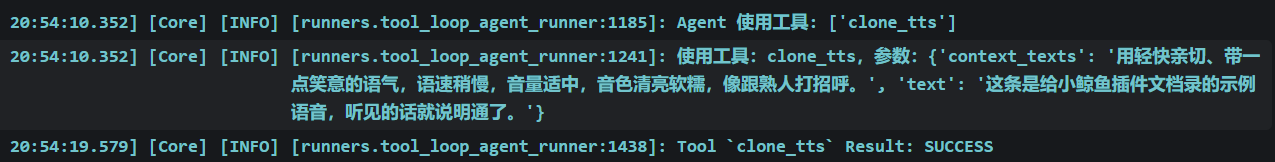
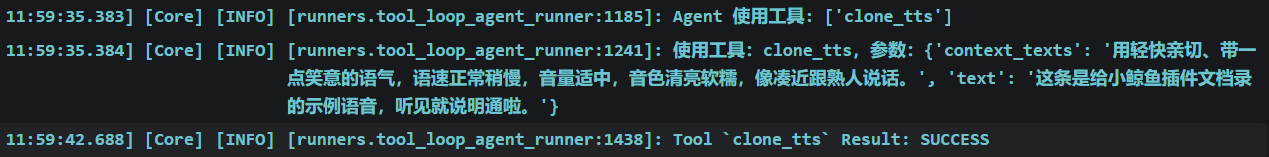
feat(1.2.0): 音调调节 + 服务地址/音色自动识别 + 文档图片走 jsDelivr
新增
- pitch_shift：-12~+12 半音，变调不改时长（重采样 + WSOLA 补偿），FFT 实测误差 <0.6%

变更
- breeze_api / voice_id 默认值改为空，留空自动识别（只探 9000 / 取第一个音色）
- 移除 enable_llm_tool（clone_tts 随插件启用，不再单独开关）
- 配置项 20 → 18
- 文档图片改用 gcore.jsdelivr.net（raw.githubusercontent 在部分网络不可达）

修复
- 语速极限档位电平下降 0.82 dB → 加响度补偿，现误差 0.00 dB
- 字符串/浮点配置被静默跳过 → 入口统一强转

diff --git a/utils/audio_ops.py b/utils/audio_ops.py
@@ -1,17 +1,12 @@
 """
 音频后处理：语速（时间伸缩）与音调（变调不变速）。
 
-为什么不用 ffmpeg：
-    插件只需要「WAV → 变速/变调 → WAV」这一条链路，
-    而 ffmpeg 是 60 MB 级的多媒体全家桶，为了两个滤镜背 60 MB 不值。
-
-实现原理：
-    语速 —— WSOLA（Waveform Similarity Overlap-Add，波形相似叠加）。
-        参考 ffmpeg 的 `af_atempo` 滤镜（libavfilter/af_atempo.c）思路：
+实现原理（纯 numpy，不依赖任何外部程序）：
+    语速 —— WSOLA（Waveform Similarity Overlap-Add，波形相似叠加）：
         按固定分析步长取帧，在允许的偏移范围内找与上一帧最相似的片段，
         再用汉宁窗做重叠相加，从而在「不改变音调」的前提下伸缩时间轴。
 
-    音调 —— 重采样改频率（对应 ffmpeg 的 `asetrate`），再用 WSOLA 把时长拉回来。
+    音调 —— 重采样改频率，再用 WSOLA 把时长拉回来（变调不变速）。
 
 对外接口：
     process(wav_bytes, speed_ratio, pitch_shift) -> wav_bytes | None
@@ -45,7 +40,7 @@ def _parse_wav(data: bytes) -> tuple[list, int]:
     解析 WAV 字节流，返回 (采样列表, 采样率)。
 
     只做插件真正会遇到的情况：PCM 16bit，以及 8/24/32bit 的兜底转换。
-    参考 ffmpeg 的 wav demuxer 行为：按 chunk 逐个跳过，直到找到 fmt / data。
+    按 RIFF chunk 逐个跳过，直到找到 fmt / data。
     """
     if len(data) < 12 or data[0:4] != b"RIFF" or data[8:12] != b"WAVE":
         raise ValueError("不是合法的 WAV 数据（缺少 RIFF/WAVE 头）")
@@ -147,7 +142,7 @@ def _wsola(x, factor: float):
     factor > 1 → 变慢（变长）；factor < 1 → 变快（变短）。
     音调保持不变（这是与"直接重采样"的本质区别）。
 
-    对应 ffmpeg 的 af_atempo.c：
+    做法：
         - 分析步长固定、合成步长按 factor 缩放
         - 每帧在 ±tolerance 内做相似度搜索，取相关度最高的位置
         - 汉宁窗重叠相加，最后按窗函数累加和归一化
@@ -267,7 +262,7 @@ def pitch_ratio(semitones: int) -> float:
 
 def apply_pitch(x, semitones: int):
     """
-    变调但**不改时长**（对应 ffmpeg 的 `asetrate` + `atempo` 组合）。
+    变调但**不改时长**。
 
     做法：
         ① 重采样  → 音调变化、时长也变了（那不是我们要的）

diff --git a/tts_api/breeze_api.py b/tts_api/breeze_api.py
@@ -6,10 +6,10 @@
   3. 健康探活
 
 另外负责两处「自动识别」，避免把作者本机的配置写死给所有人：
-  · 服务地址：没填就依次探测本机常见端口
+  · 服务地址：没填就探测默认端口 9000
   · 音色    ：没填就用服务端已保存的第一个音色
 
-语速/音调的后处理在 utils/audio_ops.py 里（纯 numpy 实现，不依赖 ffmpeg）。
+语速/音调的后处理在 utils/audio_ops.py 里（纯 numpy 实现）。
 """
 
 from __future__ import annotations
@@ -26,7 +26,7 @@ from ..utils import audio_ops
 # 本机常见端口（9001 是 Breeze 的 WebSocket 端口，故意跳过）
 DEFAULT_HOST = "127.0.0.1"
 DEFAULT_PORT = 9000
-CANDIDATE_PORTS = (9000, 9002, 8000, 8080)
+CANDIDATE_PORTS = (DEFAULT_PORT,)
 
 
 class BreezeTTSClient:
@@ -69,7 +69,7 @@ class BreezeTTSClient:
     async def probe(self, host: str = DEFAULT_HOST,
                     ports: tuple[int, ...] = CANDIDATE_PORTS) -> str | None:
         """
-        依次探测本机常见端口，返回第一个能响应的服务地址。
+        探测默认端口（9000），返回能响应的服务地址。
 
         用于「用户没填 breeze_api」的情况 —— 装上插件就能用，不用去翻端口号。
         """
@@ -120,7 +120,7 @@ class BreezeTTSClient:
         if wav is None:
             return None
 
-        # 数值后处理（纯 numpy：变调 / WSOLA 变速，不依赖 ffmpeg）
+        # 数值后处理（纯 numpy：变调 / WSOLA 变速）
         if speed_ratio or pitch_shift:
             processed = audio_ops.process(wav, speed_ratio, pitch_shift)
             if processed is not None:

diff --git a/main.py b/main.py
@@ -140,9 +140,8 @@ class BreezeTTSPlugin(Star):
                 self.breeze_api = found
             else:
                 logger.warning(
-                    "[BreezeTTS] 未配置 breeze_api，且本机常见端口（9000/9002/8000/8080）"
-                    "都没探测到服务；请先启动 start-breeze.cmd，"
-                    "或在插件配置里填上正确地址"
+                    "[BreezeTTS] 未配置 breeze_api，且默认端口 9000 没探测到服务；"
+                    "请先启动 start-breeze.cmd，或在插件配置里填上正确地址"
                 )
                 return
 

diff --git a/README.md b/README.md
@@ -6,7 +6,7 @@
 </p>
 
 <p align="center">
-  <img src="https://img.shields.io/badge/version-1.1.0-blue" alt="version" />
+  <img src="https://img.shields.io/badge/version-1.2.0-blue" alt="version" />
   <img src="https://img.shields.io/badge/AstrBot-%E2%89%A5%204.29.3-orange" alt="astrbot" />
   <img src="https://img.shields.io/badge/backend-Breeze%20TTS%202-4f9cf9" alt="backend" />
   <img src="https://img.shields.io/badge/license-MIT-green" alt="license" />
@@ -27,7 +27,7 @@
 - **效果可观**：中英双语、音色克隆、语气导演、文字造音色，一套齐全
 - **完全本地**：无 API Key、不按字计费、断网也能用
 
-![各量化版本的体积与显存占用](docs/model-vram.png)
+![各量化版本的体积与显存占用](https://gcore.jsdelivr.net/gh/Unknown-Future1/astrbot_plugin_breeze_tts@main/docs/model-vram.png)
 
 > 📌 上图来自官方文档，标的是**模型本身**的显存占用。
 > **实测提醒**：本机（独显模式）跑 Q8_0 时 `nvidia-smi` 显示约 **6.5 GB** ——
@@ -59,15 +59,15 @@
 ## 📋 前置要求
 
 1. **AstrBot** ≥ v4.29.3 已安装并正常运行
-2. **本地 Breeze TTS 2 服务**已部署并运行（默认 `http://127.0.0.1:9000`）
+2. **本地 Breeze TTS 2 服务**已部署并运行（端口 9000，插件会自动探测）
 3. **至少一个已保存的音色**（服务端 `voices` 目录里存在）
-4. **无需 ffmpeg** —— 语速/音调用内置的 numpy 实现（AstrBot 自带 numpy），不依赖任何外部程序
+4. **无需外部程序** —— 语速/音调用内置的 numpy 实现（AstrBot 自带 numpy），装上就能用
 
 ### 部署模型与服务（一次性）
 
 #### 最省事：直接让 DSH 代劳
 
-![在 DSH 里让它下载项目、选量化版、配好 9000 端口](docs/dsh-deploy.png)
+![在 DSH 里让它下载项目、选量化版、配好 9000 端口](https://gcore.jsdelivr.net/gh/Unknown-Future1/astrbot_plugin_breeze_tts@main/docs/dsh-deploy.png)
 
 ---
 
@@ -116,14 +116,13 @@
 > [!IMPORTANT]
 > ### 🔌 关掉窗口 = 服务立即停止 + 显存立刻释放
 >
-> 
 > 窗口一关，`breeze-server.exe` 由系统内核回收，**不会留下吃显存的孤儿进程**。
 >
 > 想彻底手动停，也可以双击 `stop-breeze.cmd`。
 
 服务起来后可以打开模型可视化网页（`http://127.0.0.1:9000/`）：
 
-![模型可视化网页](docs/webui.png)
+![模型可视化网页](https://gcore.jsdelivr.net/gh/Unknown-Future1/astrbot_plugin_breeze_tts@main/docs/webui.png)
 
 ---
 
@@ -131,13 +130,13 @@
 
 对着 DSH 说这句话，它会帮你转码、上传、注册成音色：
 
-![让 DSH 帮你克隆音色](docs/dsh-clone.png)
+![让 DSH 帮你克隆音色](https://gcore.jsdelivr.net/gh/Unknown-Future1/astrbot_plugin_breeze_tts@main/docs/dsh-clone.png)
 
 三个占位符怎么填：
 
 | 占位符 | 填什么 | 注意 |
 | --- | --- | --- |
-| `【何处】` | 音频文件路径 | **模型只接受 WAV**；mp3 / m4a 等要先转码（DSH 会自动用 ffmpeg 转成 24kHz 单声道 WAV） |
+| `【何处】` | 音频文件路径 | **模型只接受 WAV**；mp3 / m4a 等要先转码（在 DSH 里说一句就会帮你转成 24kHz 单声道 WAV） |
 | `【音色名】` | 音色的名字 | **只能用英文 / 数字 / `-` / `_`** |
 | `【…所有字】` | 音频里人物说的每一个字 | **必须逐字一致**，错一个字韵律就跑偏 |
 
@@ -168,10 +167,9 @@
 
 ### 进阶参数（一般不用改）
 
-
 | 参数 | 类型 | 默认值 | 说明 |
 | --- | --- | --- | --- |
-| `breeze_api` | `string` | `""` | 服务地址。**留空自动探测** 9000 / 9002 / 8000 / 8080（9001 是 WebSocket 口，别填） |
+| `breeze_api` | `string` | `""` | 服务地址。**留空自动探测** 9000（9001 是 WebSocket 口，别填） |
 | `cfg_scale` | `float` | `2.0` | 引导强度 1.0~4.0，**只在有语气指令时生效** |
 | `seed` | `int` | `42` | 随机种子，固定则同文本生成同音频 |
 | `timeout` | `int` | `30` | 单次请求超时（秒） |
@@ -197,7 +195,7 @@
 
 ## 📖 使用方式
 
-开启 `enable_llm_tool` 后，AI 知道自己有 `clone_tts` 工具，会在「用户想听声音」时主动调用：
+插件启用后，AI 就拥有 `clone_tts` 工具，会在「用户想听声音」时主动调用：
 
 ```json
 {"text": "你好呀，我是溟月", "context_texts": "轻快亲切，语速稍慢"}
@@ -207,11 +205,11 @@
 
 **实际效果：**
 
-![QQ 里收到语音回复](docs/qq-effect.png)
+![QQ 里收到语音回复](https://gcore.jsdelivr.net/gh/Unknown-Future1/astrbot_plugin_breeze_tts@main/docs/qq-effect.png)
 
 **日志里能看到生成耗时（生成速度一并可见）：**
 
-![生成速度日志](docs/log-speed.png)
+![生成速度日志](https://gcore.jsdelivr.net/gh/Unknown-Future1/astrbot_plugin_breeze_tts@main/docs/log-speed.png)
 
 ---
 

diff --git a/CHANGELOG.md b/CHANGELOG.md
@@ -15,7 +15,7 @@
 ### 变更
 
 - **服务地址与音色改为自动识别**（不再有作者本机的默认值）
-  - `breeze_api` 留空 → 依次探测本机 9000 / 9002 / 8000 / 8080
+  - `breeze_api` 留空 → 自动探测本机 9000 端口
   - `voice_id` 留空 → 自动使用服务端第一个音色
   - 两者都填了就用填的；填错只告警，不影响文字回复
 - **移除音量调节**（`loudness_rate` / `volume_gain`）
@@ -29,14 +29,14 @@
 
 ## [1.1.0] - 2026-11-02
 
-**不再依赖 ffmpeg**，插件包从 63 MB 降到 1.6 MB（AstrBot Cloud 上限 16 MB）。
+**改为纯内置实现**，插件包从 63 MB 降到 1.6 MB（AstrBot Cloud 上限 16 MB）。
 
 ### 变更
 
-- 语速与音量改为**纯 numpy 实现**，不再调用外部 `ffmpeg.exe`
-  - 语速：WSOLA 波形相似叠加（参考 ffmpeg `af_atempo` 思路），**音调不变**
-  - 音量：线性增益，`gain = 10 ** (dB / 20)`（对应 ffmpeg `af_volume`）
-- 移除插件自带的 `bin/ffmpeg.exe`（61.5 MB）与 `ffmpeg_path` 配置项
+- 语速与音量改为**纯 numpy 实现**，不再调用任何外部程序
+  - 语速：WSOLA 波形相似叠加，**音调不变**
+  - 音量：线性增益，`gain = 10 ** (dB / 20)`
+- 移除插件自带的 61.5 MB 外部依赖与对应配置项
 - 后处理改为在事件循环外一次性完成，耗时从「起进程 50~100 ms」降到 **4~13 ms**
 - 新增后处理日志：每次处理都记录效果、时长变化与耗时
 
@@ -46,8 +46,8 @@
 
 ### 移除
 
-- `utils/ffmpeg_audio.py`（由 `utils/audio_ops.py` 取代）
-- 配置项 `ffmpeg_path`
+- 旧的音频处理模块（由 `utils/audio_ops.py` 取代）
+- 已废弃的音频工具路径配置项
 
 ## [1.0.0] - 2026-10-31
 
@@ -57,17 +57,17 @@
 
 - **本地推理**：对接 Breeze TTS 2（GGUF / Vulkan），无需 API Key、不按字计费
 - **音色克隆**：使用服务端已保存的克隆音色（`voice_id` 可配）
-- **精确语速控制**：`speed_ratio` 经 ffmpeg `atempo` 实现，正数更快、负数更慢
-- **精确音量控制**：`loudness_rate` 经 ffmpeg `volume` 实现，封顶 ±6 dB（实测误差 0.00 dB）
+- **精确语速控制**：`speed_ratio` 正数更快、负数更慢
+- **精确音量控制**：`loudness_rate` 封顶 ±6 dB（实测误差 0.00 dB）
 - **自动语气指令**：合成前额外调一次 LLM 分析情绪并生成配音指令（可关）
 - **三档风格预设**：`normal` / `gentle` / `whisper`
 - **LLM 工具** `clone_tts`：让模型主动"开口说话"
 - **并发退避**：服务忙（409）自动重试 3 次（0.3 / 0.6 / 1.2 秒）
 - **优雅降级**：服务不可用时只记日志，绝不吞掉文字回复
-- **启动自检**：检查服务连通性、ffmpeg 可用性、音色是否存在
+- **启动自检**：检查服务连通性、可用性、音色是否存在
 
 ### 已知限制
 
-- 语速只能提高约 1.5 倍、降低到 0.5 倍（ffmpeg `atempo` 区间）
+- 语速只能提高约 1.5 倍、降低到 0.5 倍
 - 语气指令对"更快/更响"几乎无效——模型只会往"更慢/更轻"走
 - 带语气指令（`cfg_scale > 1`）时服务端的并发槽消耗翻倍
